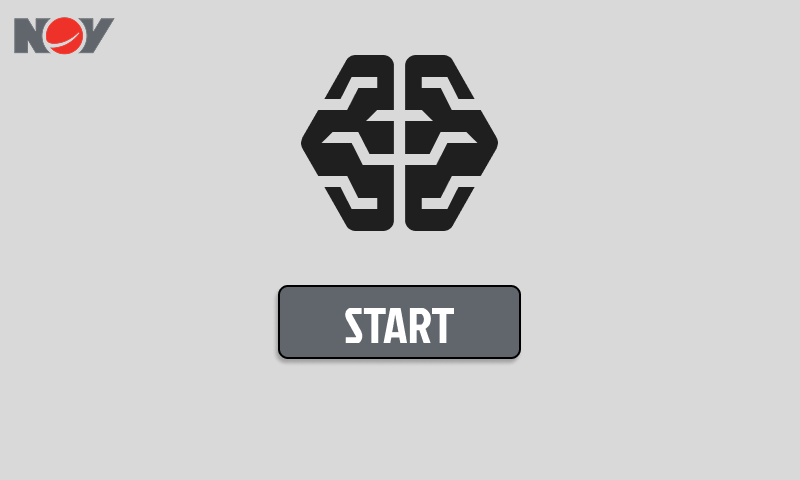
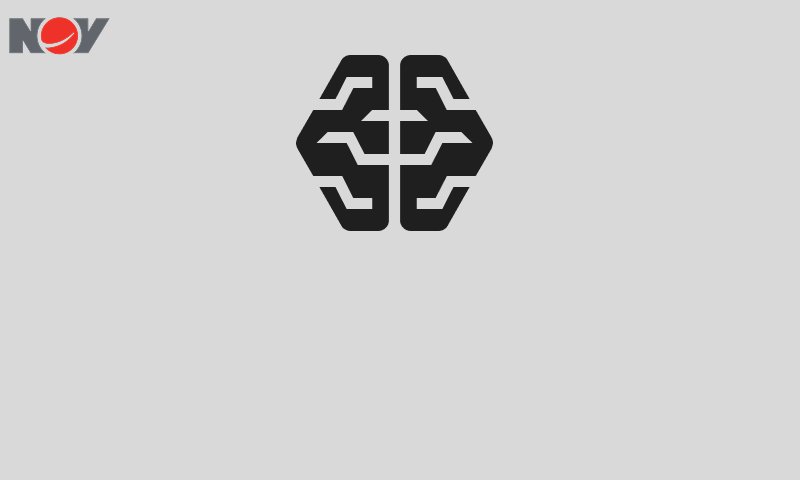
a

diff --git a/pi/src/other_modules/ui/start_screen.py b/pi/src/other_modules/ui/start_screen.py
@@ -28,9 +28,16 @@ class Screen1(tk.Frame):
 
         self.example_button = tk.Button(
             self,
+            text="START",
+            font=("Jockey One", 20),
+            fg="white",                    # Text color
+            borderwidth=0,            # No border
+            highlightthickness=0,     # No highlight border
+            background="#60666C",     # Match image color or use transparent if supported
+            activebackground="#4B4C4C",  # Match on press
             command=self.on_button_click,
         )
-        self.example_button.place(x=280, y=285, width=243, height=74)  # Absolute placement        
+        self.example_button.place(x=380, y=315, width=243, height=74)  # Absolute placement        
 
     def show(self):
         """Make this frame visible"""

diff --git a/jetson/src/hmi_test.py b/jetson/src/hmi_test.py
@@ -34,5 +34,7 @@ while mqtt_client.jetson_state != "0.0":
 
 print("Connected!")
 
-if mqtt_client.jetson_state == "1.0":
-    run_controller_2.main()
+while mqtt_client.jetson_state != "1.0":
+    time.sleep(0.1)
+
+run_controller_2.main()
